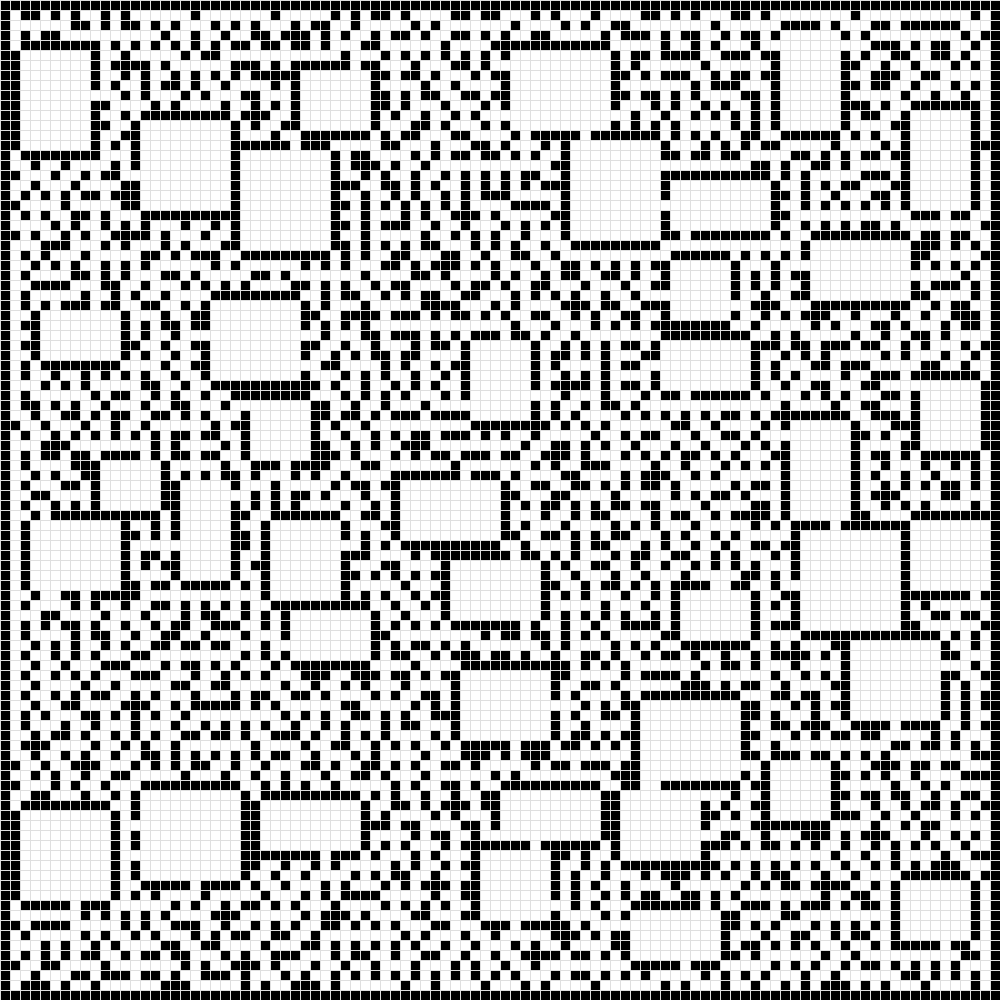
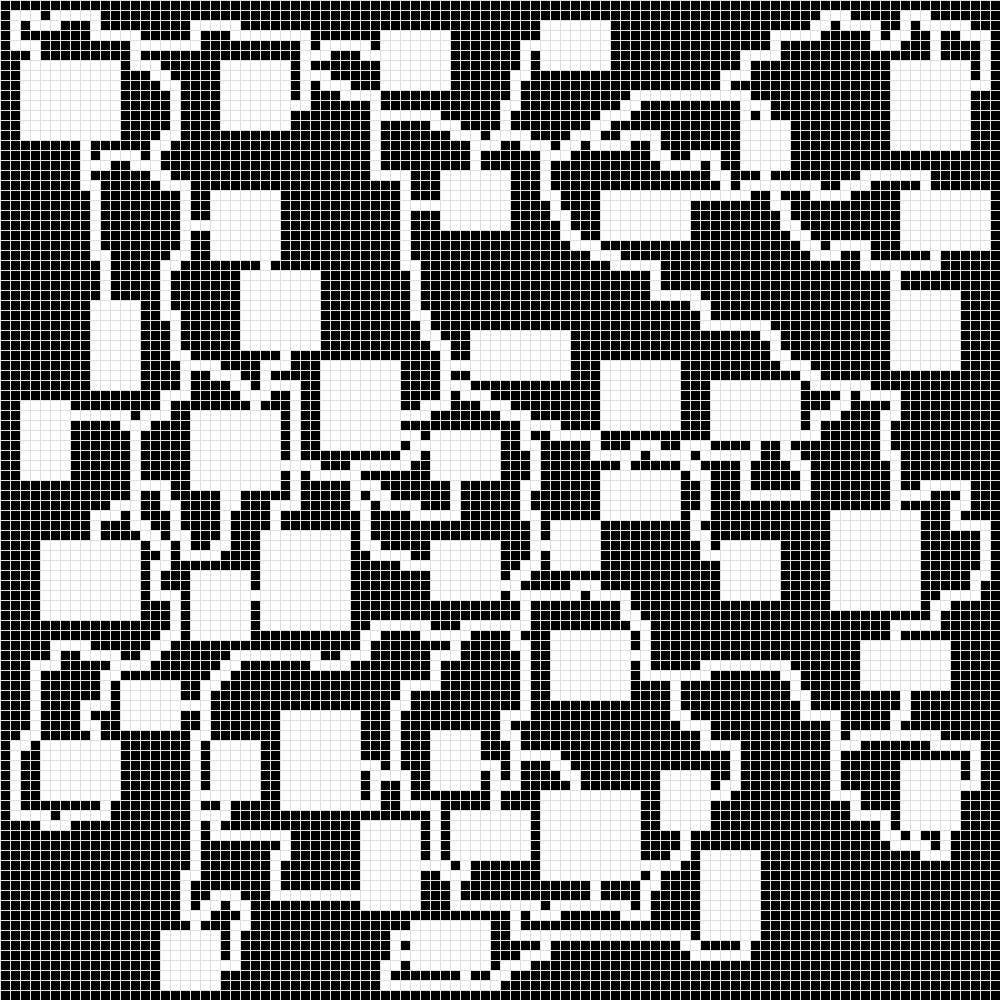
Added pruning for dead ends

diff --git a/src/services/maze_generation_service.py b/src/services/maze_generation_service.py
@@ -1,4 +1,5 @@
 import random
+from collections import deque
 from entities.map import Status
 
 class MazeGenerationService:
@@ -233,3 +234,24 @@ class MazeGenerationService:
                 and self._count_adjacent_passages((x_coord, y_coord)) == 0):
                     self._maze_cells[x_coord][y_coord] = 'w'
                     self._map.unoccupy(x_coord, y_coord)
+
+    def prune_dead_ends(self):
+        """Remove dead ends, i.e. cells that have only one neighbouring passage,
+        leaving only winding paths between rooms"""
+        for y_coord in range(self._map.map_height):
+            for x_coord in range(self._map.map_width):
+                if self._maze_cells[x_coord][y_coord] == 'p':
+                    stack = deque()
+                    visited = [[False for x_coord in range(self._map.map_width)]
+                               for y_coord in range(self._map.map_height)]
+                    stack.append((x_coord, y_coord))
+                    while stack:
+                        source = stack.popleft()
+                        if self._map.is_cell_dead_end(source[0], source[1]):
+                            self._maze_cells[source[1]][source[0]] = 'w'
+                            self._map.unoccupy(source[0], source[1])
+                        if not visited[source[1]][source[0]]:
+                            visited[source[1]][source[0]] = True
+                            for adjacent in self._map.get_adjacent_cells(source[0], source[1]):
+                                if self._map.is_cell_occupied(adjacent[0], adjacent[1]):
+                                    stack.appendleft(adjacent)

diff --git a/src/entities/map.py b/src/entities/map.py
@@ -52,7 +52,7 @@ class Map:
         """
 
         self.cells[(cell_x, cell_y)] = Status.OCCUPIED
-        for cell in self._get_adjacent_cells(cell_x, cell_y):
+        for cell in self.get_adjacent_cells(cell_x, cell_y):
             if cell not in self.cells:
                 self.cells[cell] = Status.ADJACENT_OCCUPIED
             elif self.cells[cell] == Status.UNOCCUPIED:
@@ -88,9 +88,9 @@ class Map:
         """
 
         self.cells[(cell_x, cell_y)] = Status.UNOCCUPIED
-        for cell in self._get_adjacent_cells(cell_x, cell_y):
+        for cell in self.get_adjacent_cells(cell_x, cell_y):
             marked_for_removal = True
-            for sub_cell in self._get_adjacent_cells(cell[0], cell[1]):
+            for sub_cell in self.get_adjacent_cells(cell[0], cell[1]):
                 if sub_cell in self.cells:
                     if self.cells[sub_cell] == Status.OCCUPIED:
                         marked_for_removal = False
@@ -124,7 +124,7 @@ class Map:
 
         return number_of_cells < 2
 
-    def _get_adjacent_cells(self, cell_x, cell_y):
+    def get_adjacent_cells(self, cell_x, cell_y):
         """Get the non-diagonally adjacent cells of a given cell
 
         Args:

diff --git a/src/index.py b/src/index.py
@@ -26,6 +26,7 @@ def main():
     maze_gen.init_maze()
     maze_gen.generate_perfect_maze()
     maze_gen.connect_maze_to_rooms(odds_of_loops)
+    maze_gen.prune_dead_ends()
     drawing.draw_corridors()
     drawing.draw_grid()
     MapRepository(drawing.get_image()).save("demo/test")
